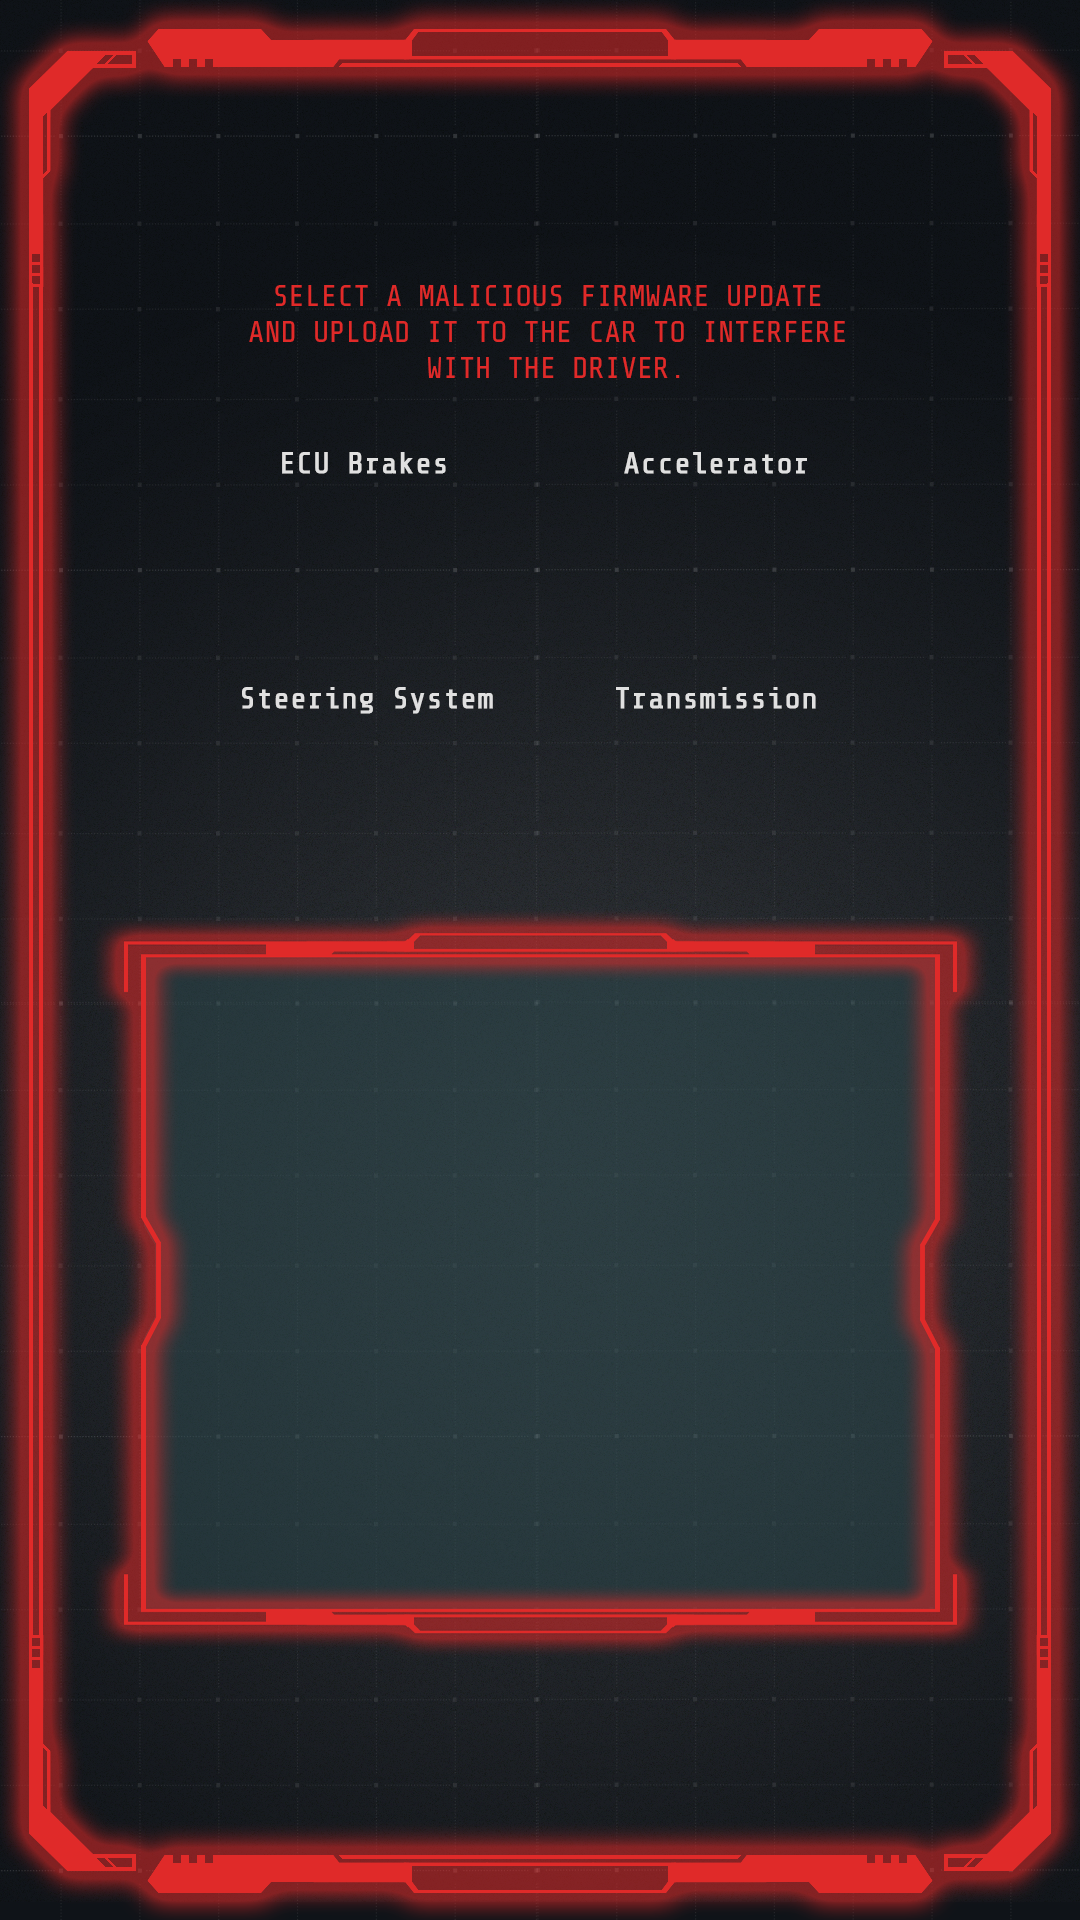
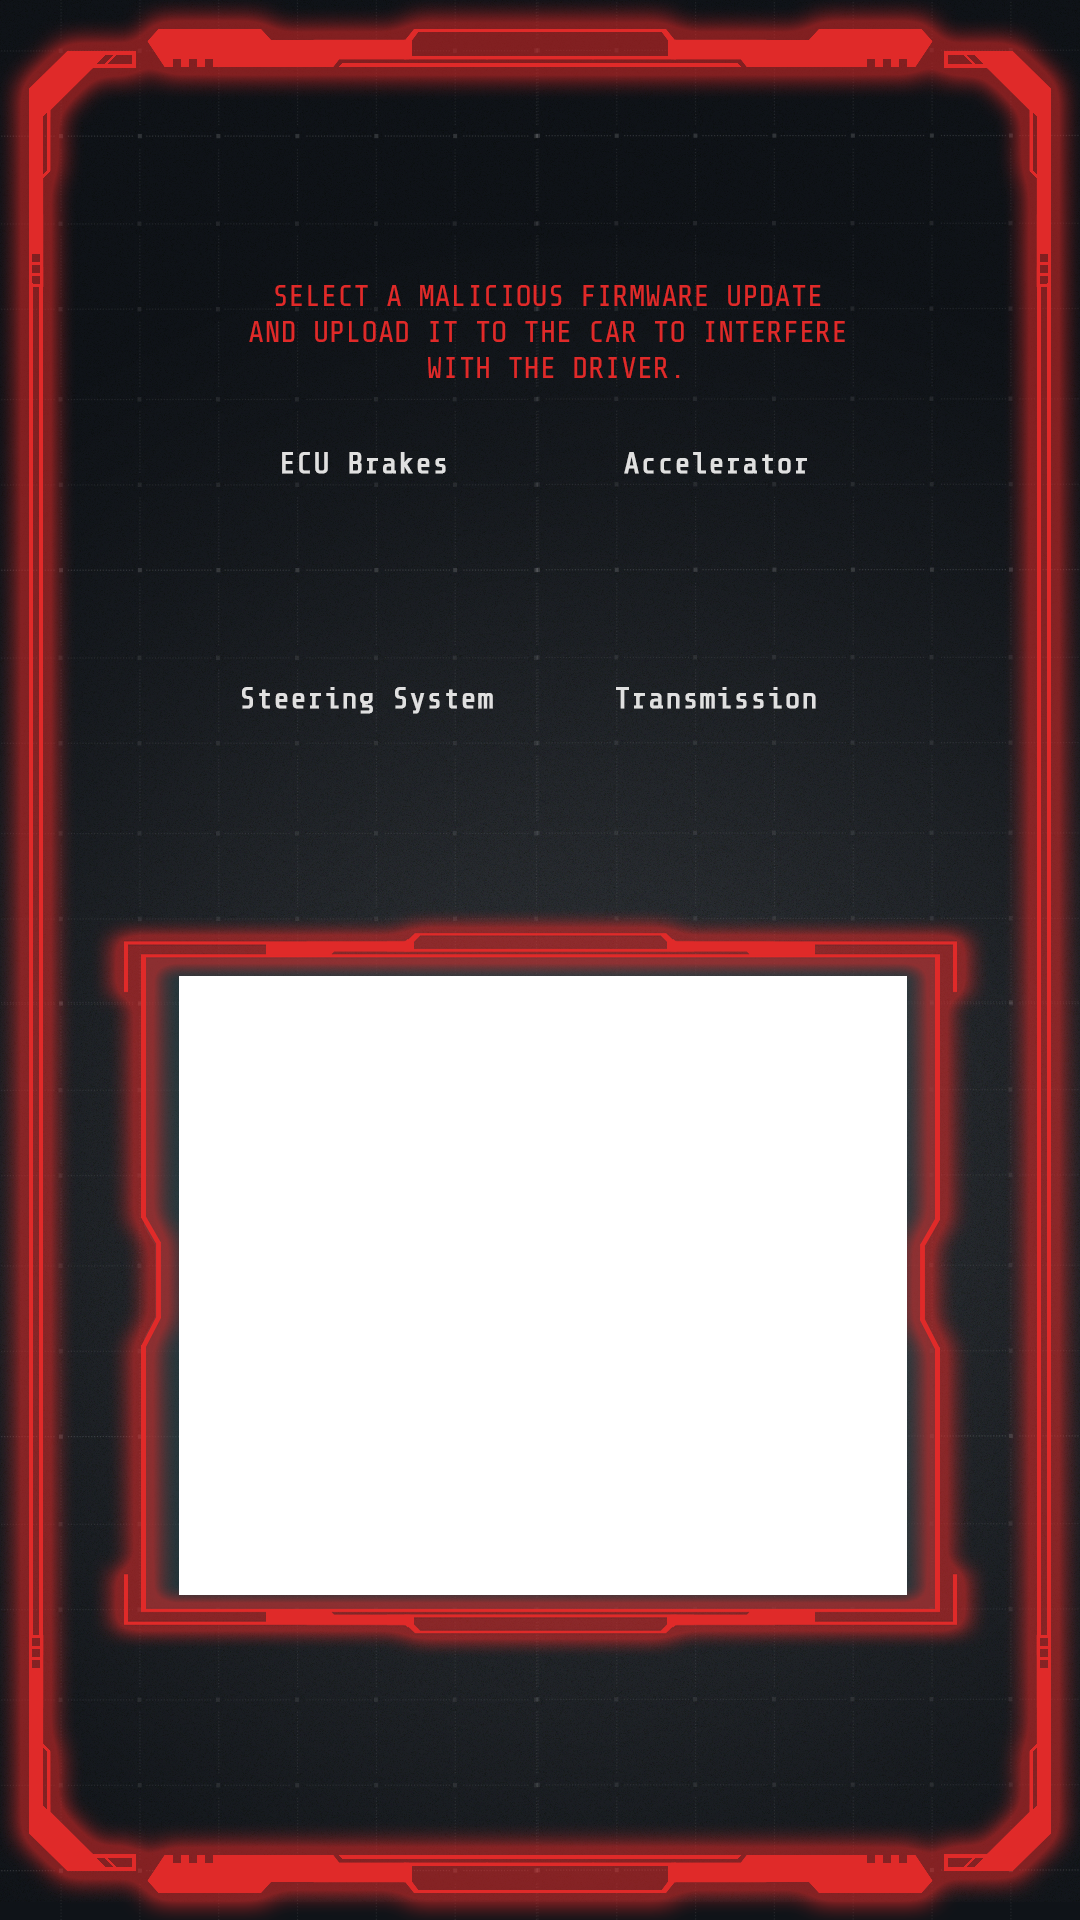
webcam view

Changed region(s): [[0.1528, 0.5, 0.8556, 0.8438]]

diff --git a/besspin/cyberPhys/ui/hacker-kiosk/src/components/Hack08_CriticalExploit.vue b/besspin/cyberPhys/ui/hacker-kiosk/src/components/Hack08_CriticalExploit.vue
@@ -1,5 +1,7 @@
 <template>
   <div id="hack08">
+      <video autoplay="true" id="videoElement"></video>
+      <div id="bg"></div>
       <router-link class="hack08-brakes-btn img-btn" to="/hack09_protect" tag="button">
       </router-link>
 
@@ -15,8 +17,21 @@
 </template>
 
 <style scoped>
-  #hack08 {
+  #bg {
     background-image: url('/hack08_criticalExploit/hack08_criticalExploit_noHeader_noBTN.png');
+    height: 100vh;
+    width: 100vw;
+    position: absolute;
+    top: 0;
+    left: 0;
+  }
+  #videoElement {
+    position: absolute;
+    top: 950px;
+    left: 90px;
+    width: 900px;
+  }
+  #hack08 {
     height: 1920px;
     width: 1080px;
     text-align: center;
@@ -90,6 +105,16 @@
       }
     },
     mounted() {
+      var video = document.querySelector("#videoElement");
+      if (navigator.mediaDevices.getUserMedia) {
+      navigator.mediaDevices.getUserMedia({ video: true })
+      .then( function(stream) {
+        video.srcObject = stream;
+      })
+      .catch( function() {
+        console.log("Something went wrong!");
+      });
+}
     },
     methods: {
     }
